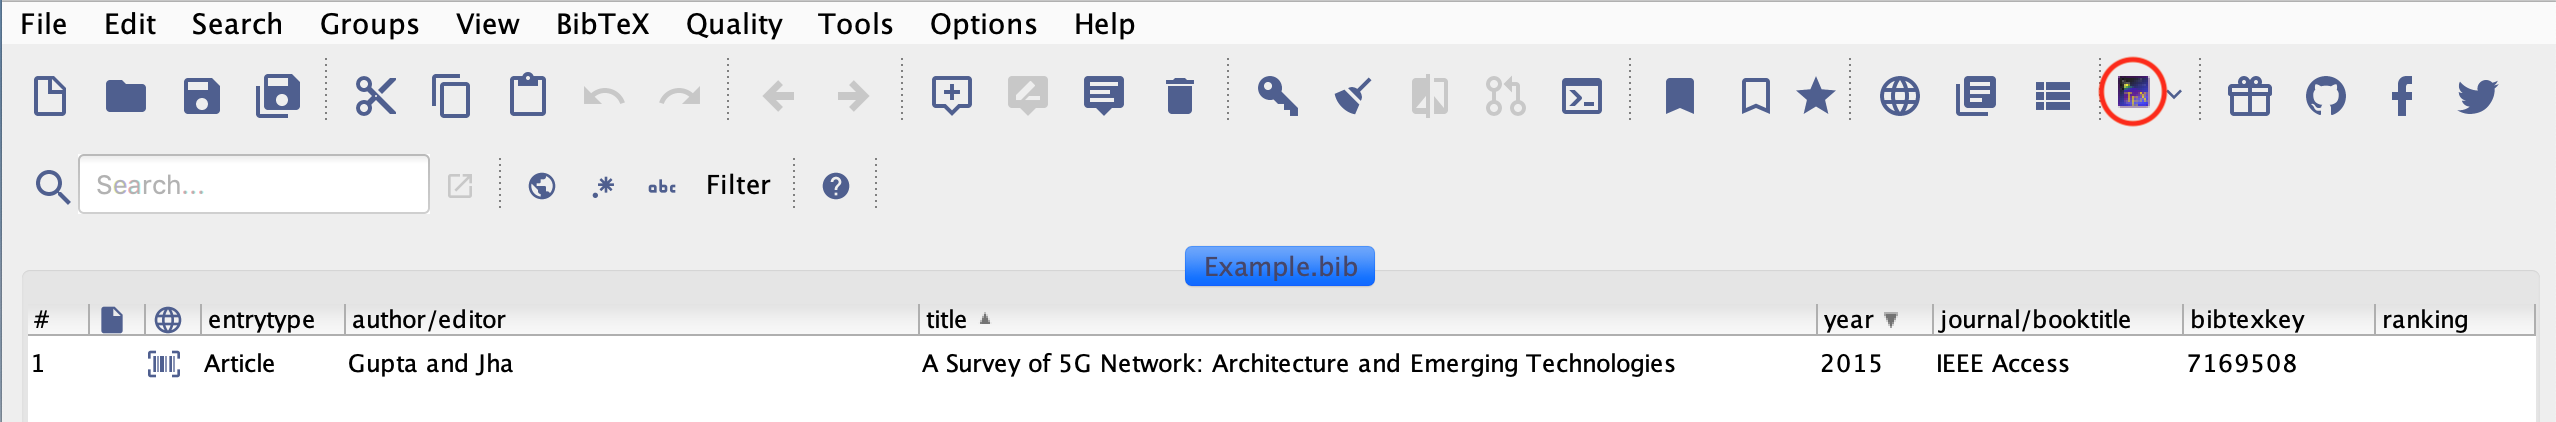
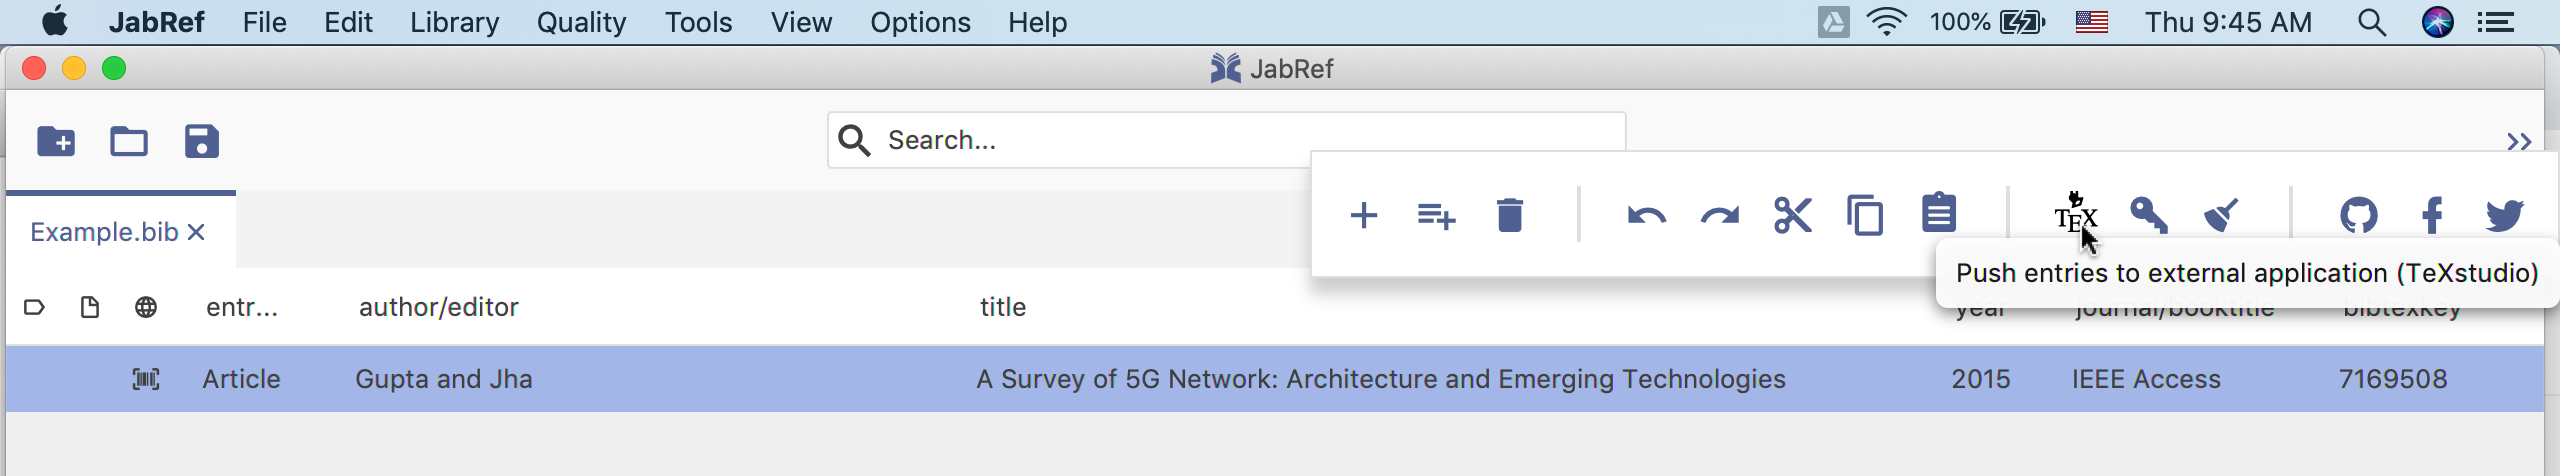
Revised docs with new build screenshots

diff --git a/en/ExternalFiles.md b/en/ExternalFiles.md
@@ -18,7 +18,7 @@ To change the external viewer settings, go to **Options → Preferences → Exte
 
 ## Pushing to external viewer application
 
-JabRef allows you to push any entries in your main window to an external viewer through the push-to-external application feature. You would need to first select the entries in your entry table that you would like to export before using the feature. Once you have done so, go to the tools submenu and click on the push-to-external application button to the right of the **Toggle groups interface** button. By default the external viewer used to push exports is TeXstudio.
+JabRef allows you to push any entries in your main window to an external viewer through the push-to-external application feature. You would need to first select the entries in your entry table that you would like to export before using the feature. Once you have done so, go to the tools submenu and click on the push-to-external application button to the left of the **Generate BibTeX keys** button. By default the external viewer used to push exports is TeXstudio.
 
 On MacOS:
 ![Push to External MacOS](images/Push-External-Button-MacOS.png)
@@ -26,19 +26,15 @@ On MacOS:
 On Windows:
 ![Push to External Windows](images/Push-External-Button-Windows.png)
 
-JabRef also allows you to change the external viewer application you would like to push your exports to. To do so, click on the down arrow next to the push-to-external application button. This will cause a dropdown menu to appear, from which you are able to select from a list of the external viewers you have configured.
+JabRef also allows you to change the external viewer application you would like to push your exports to. To do so, first go to **Options → Preferences → External programs**. Under the **Push applications** section click on the **Application to push entries to** field. This will cause a dropdown menu to appear, from which you are able to select from a list of the external viewers you have configured.
 
 ![Select External Application](images/During-Application-Selection.png)
 
-Once you have made your selection, the push-to-external application button icon will change to match that of the selected external viewer application.
+Once you have made your selection and click **Save**, the push-to-external application button icon will change to match that of the selected external viewer application.
 
 ![New Application After Select](images/After-Application-Selection.png)
 
-If you are using JabRef in Windows, you can alternatively select your external viewer application through **Options → Preferences → External programs**.
-
-![Selection Through Preferences](images/Selection-From-Preferences.png)
-
-When you click on the push-to-external application, JabRef will export your selected entries to a file generated by the selected external viewer application. As an example, here is what happens when you export one entry to TexStudio.
+When you click on the push-to-external application button, JabRef will export your selected entries to a file generated by the selected external viewer application. As an example, here is what happens when you export one entry to TexStudio.
 
 ![Initial Push to External Export](images/Initial-Push-Export.png)
 
